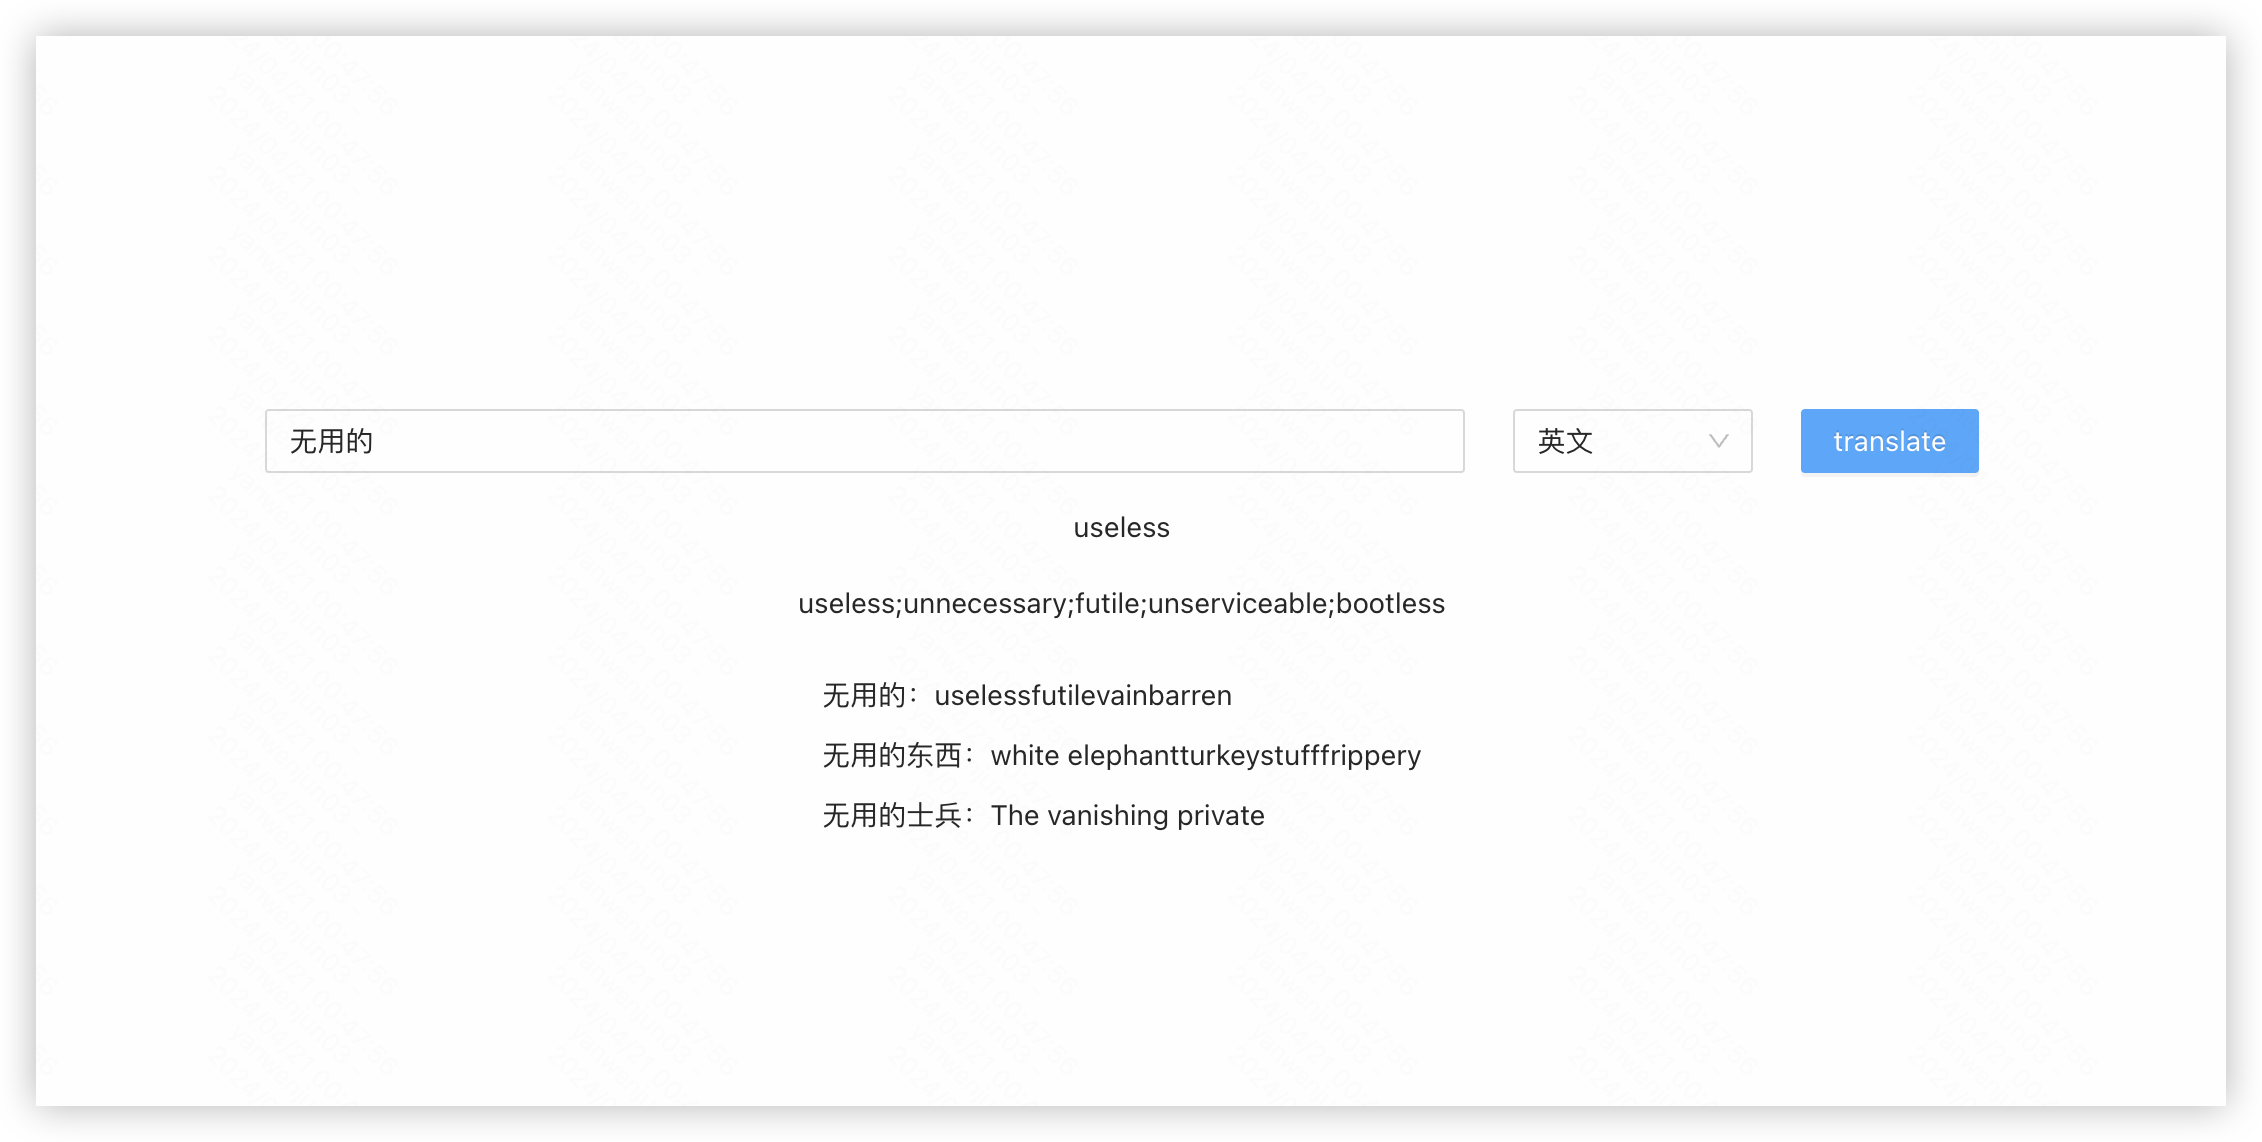
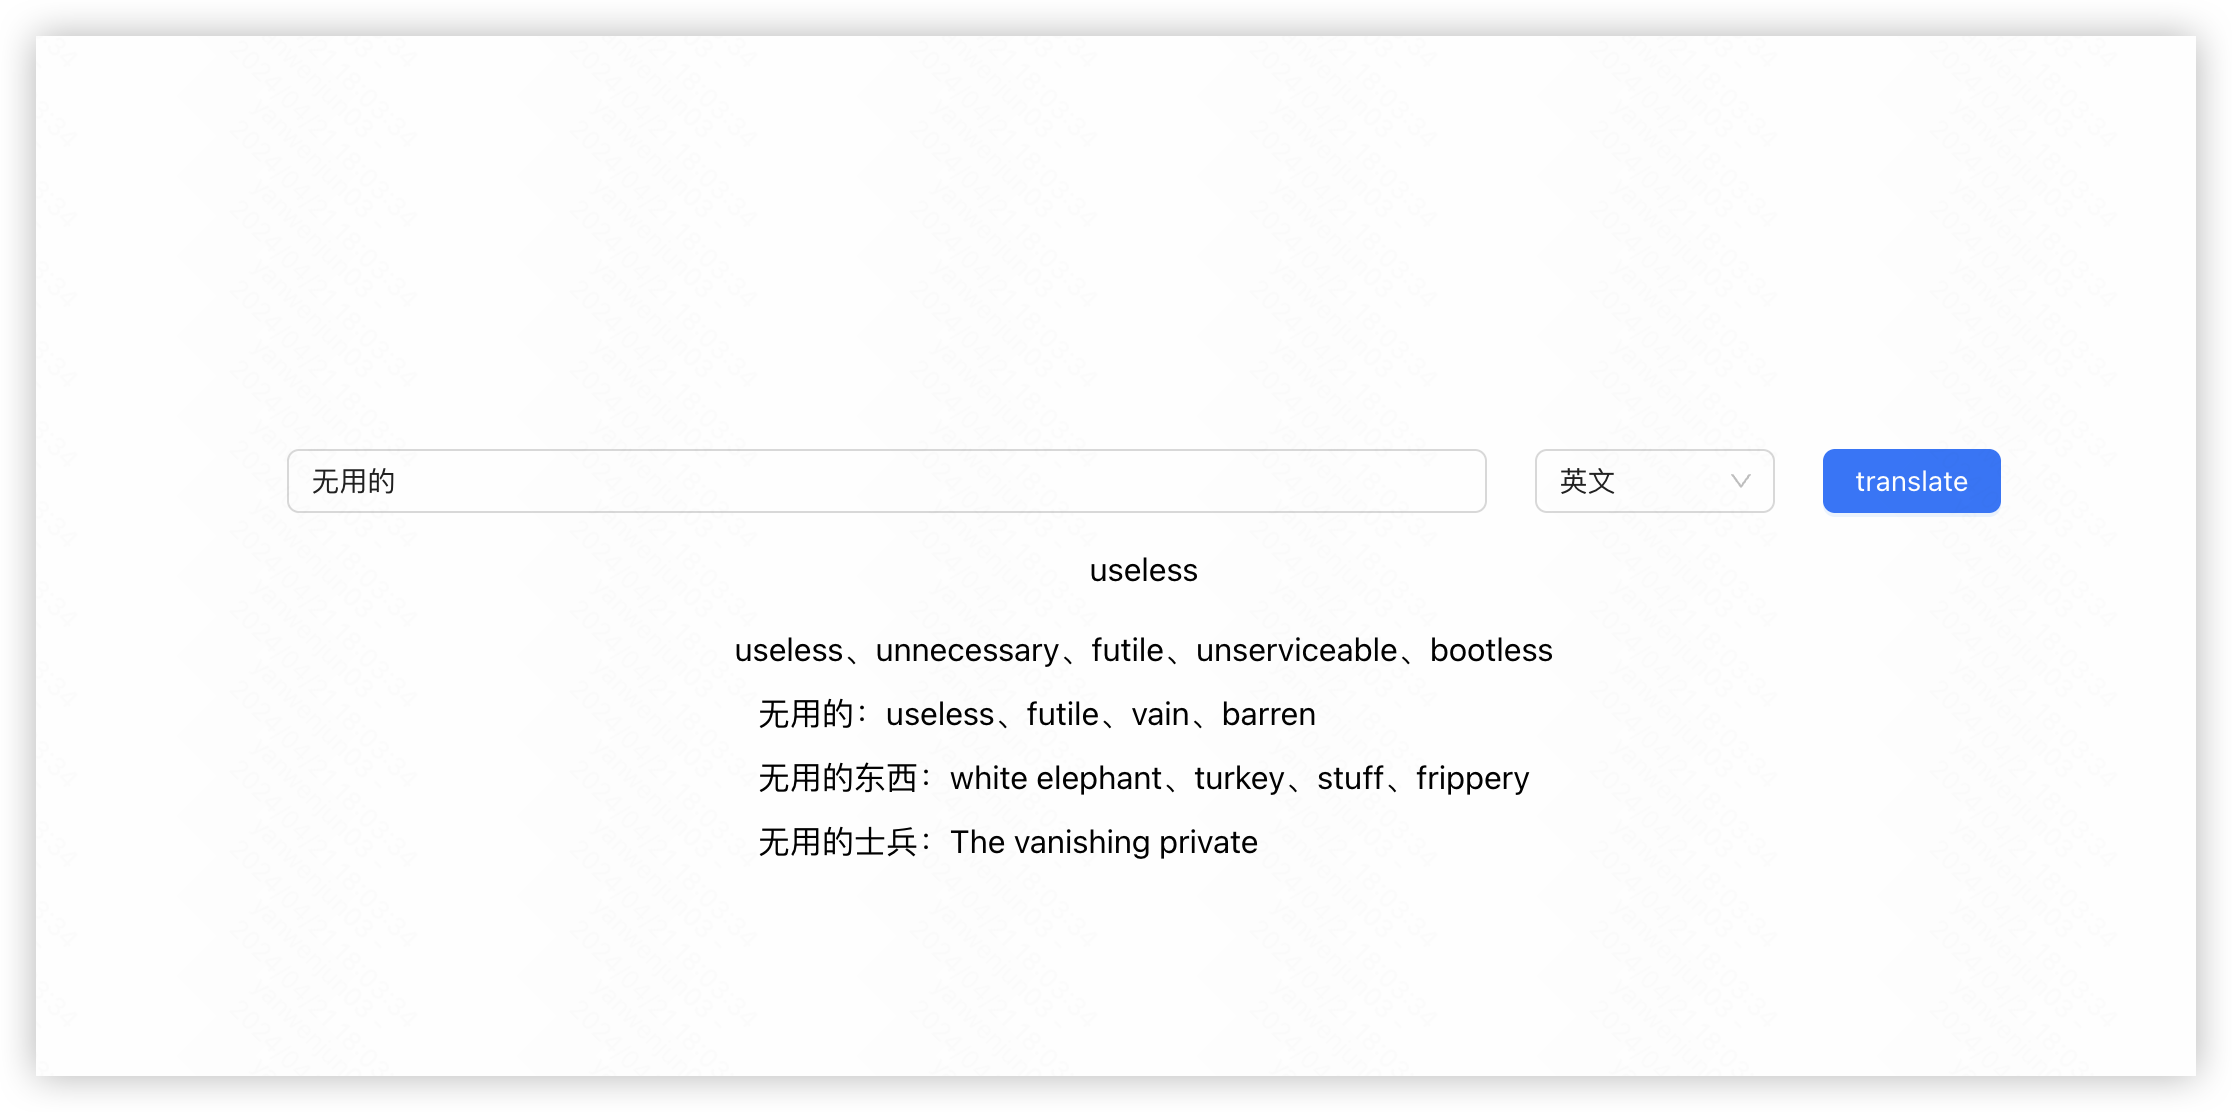
refactor: :recycle: package into components

diff --git a/src/App.tsx b/src/App.tsx
@@ -1,87 +1,11 @@
-import { useCallback, useState } from 'react';
-import { Button, Input, Select, Tooltip } from 'antd';
-import { translate, uuid, Web, Basic } from './utils';
+
+import { YouDao } from 'components';
 
 const App = () => {
-  const [query, setQuery] = useState('Hello World');
-  const [to, setTo] = useState('en');
-  const [translations, setTranslations] = useState<string[]>([]);
-  const [webs, setWebs] = useState<Web[]>([]);
-  const [basics, setBasic] = useState<Basic>();
-  const onClick = useCallback(() => {
-    translate({ query, to })
-      .then((res) => {
-        if (res && res.errorCode === '0') {
-          setTranslations(res?.translation || []);
-          setWebs(res?.web || []);
-          setBasic(res?.basic);
-        }
-      })
-      .catch((error) => {
-        console.error('翻译出错:', error);
-      });
-  }, [query, to]);
-
-  const translationRender = useCallback(
-    () => (
-      <div className="flex flex-col items-start justify-center mt-4">
-        {translations.map((translation, index) => (
-          <div key={translation + uuid(index)} className="text-left">
-            {translation}
-          </div>
-        ))}
-      </div>
-    ),
-    [translations]
-  );
-
-  const webRender = useCallback(
-    () => (
-      <div className="flex flex-col items-start justify-center mt-4">
-        {webs.map((web, index) => (
-          <div key={web.key + uuid(index)} className="text-left mt-2">
-            {web.key}：{web.value.join('、')}
-          </div>
-        ))}
-      </div>
-    ),
-    [webs]
-  );
-
-  const explainsRender = useCallback(
-    () => <div className="text-center mt-4">{basics?.explains.join(';')}</div>,
-    [basics]
-  );
 
   return (
     <div className="flex flex-col items-center justify-center h-screen">
-      <div className="flex items-center justify-center w-full max-w-800 mx-auto space-x-6 pt-1/3">
-        <Input
-          className="flex-grow"
-          value={query}
-          onChange={(e) => setQuery(e.target.value)}
-          style={{ maxWidth: '600px' }}
-        />
-        <Tooltip title={'目标语言'}>
-          <Select
-            defaultValue={'en'}
-            title={'目标语言'}
-            style={{ width: 120 }}
-            onChange={setTo}
-            options={[
-              { value: 'zh-CHS', label: '简体中文' },
-              { value: 'zh-CHT', label: '繁体中文' },
-              { value: 'en', label: '英文' },
-            ]}
-          />
-        </Tooltip>
-        <Button onClick={onClick} type="primary">
-          translate
-        </Button>
-      </div>
-      {translationRender()}
-      {explainsRender()}
-      {webRender()}
+      <YouDao />
     </div>
   );
 };

diff --git a/src/components/YouDao.tsx b/src/components/YouDao.tsx
@@ -1,0 +1,87 @@
+import { useCallback, useState } from 'react';
+import { Button, Input, Select, Tooltip } from 'antd';
+import { translate, uuid, Web, Basic } from '../utils';
+
+export const YouDao = () => {
+  const [query, setQuery] = useState('Hello World');
+  const [to, setTo] = useState('en');
+  const [translations, setTranslations] = useState<string[]>([]);
+  const [webs, setWebs] = useState<Web[]>([]);
+  const [basics, setBasic] = useState<Basic>();
+  const onClick = useCallback(() => {
+    translate({ query, to })
+      .then((res) => {
+        if (res && res.errorCode === '0') {
+          setTranslations(res?.translation || []);
+          setWebs(res?.web || []);
+          setBasic(res?.basic);
+        }
+      })
+      .catch((error) => {
+        console.error('翻译出错:', error);
+      });
+  }, [query, to]);
+
+  const translationRender = useCallback(
+    () => (
+      <div className="flex flex-col items-start justify-center mt-4">
+        {translations.map((translation, index) => (
+          <div key={translation + uuid(index)} className="text-left">
+            {translation}
+          </div>
+        ))}
+      </div>
+    ),
+    [translations]
+  );
+
+  const webRender = useCallback(
+    () => (
+      <div className="flex flex-col items-start justify-center">
+        {webs.map((web, index) => (
+          <div key={web.key + uuid(index)} className="text-left mt-2">
+            {web.key}：{web.value.join('、')}
+          </div>
+        ))}
+      </div>
+    ),
+    [webs]
+  );
+
+  const explainsRender = useCallback(
+    () => <div className="text-center mt-4">{basics?.explains.join('、')}</div>,
+    [basics]
+  );
+
+  return (
+    <>
+      <div className="flex items-center justify-center w-full max-w-800 mx-auto space-x-6 pt-1/3">
+        <Input
+          className="flex-grow"
+          value={query}
+          onChange={(e) => setQuery(e.target.value)}
+          style={{ maxWidth: '600px' }}
+        />
+        <Tooltip title={'目标语言'}>
+          <Select
+            defaultValue={'en'}
+            title={'目标语言'}
+            style={{ width: 120 }}
+            onChange={setTo}
+            options={[
+              { value: 'zh-CHS', label: '简体中文' },
+              { value: 'zh-CHT', label: '繁体中文' },
+              { value: 'en', label: '英文' },
+            ]}
+          />
+        </Tooltip>
+        <Button onClick={onClick} type="primary">
+          translate
+        </Button>
+      </div>
+      {translationRender()}
+      {explainsRender()}
+      {webRender()}
+    </>
+  );
+}

diff --git a/src/components/index.ts b/src/components/index.ts
@@ -1,0 +1,1 @@
+export * from './YouDao';
